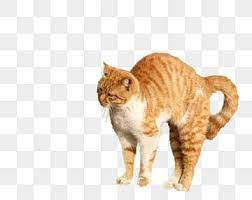
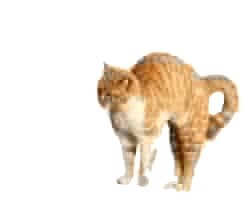
working main class, cats with no backgroud

diff --git a/src/MainGame.java b/src/MainGame.java
@@ -4,11 +4,30 @@ import javafx.application.Application;
 import javafx.scene.Scene;
 import javafx.scene.layout.Pane;
 import javafx.stage.Stage;
+import src.classes.Enemy;
 
 public class MainGame extends Application{
 
+    // Début du jeu
     @Override
     public void start(Stage mainStage){
-        
+
+        // Panneau du jeu
+        Pane root = new Pane();
+
+        // création de la scène
+        Scene scene = new Scene(root, 640, 400);
+
+        // Instanciation de l'enemy et ajout à la scène
+        Enemy enemy = new Enemy("/images/enemy.png", 100, 100);
+        root.getChildren().add(enemy.getModel());
+
+        // Affichage de la scène
+        mainStage.setTitle("Jeu simple");
+        mainStage.setScene(scene);
+        mainStage.show();
+    }
+    public static void main(String[] args){
+        launch(args);
     }
 }

diff --git a/src/classes/Enemy.java b/src/classes/Enemy.java
@@ -21,6 +21,7 @@ public class Enemy {
     public Enemy(String pathToImage, double posX, double posY) {
         Image image = new Image(pathToImage);
         model = new ImageView(image);
+        model.setStyle("-fx-background-color: transparent;");
         positionX = posX;
         positionY = posY;
         model.setX(positionX);
